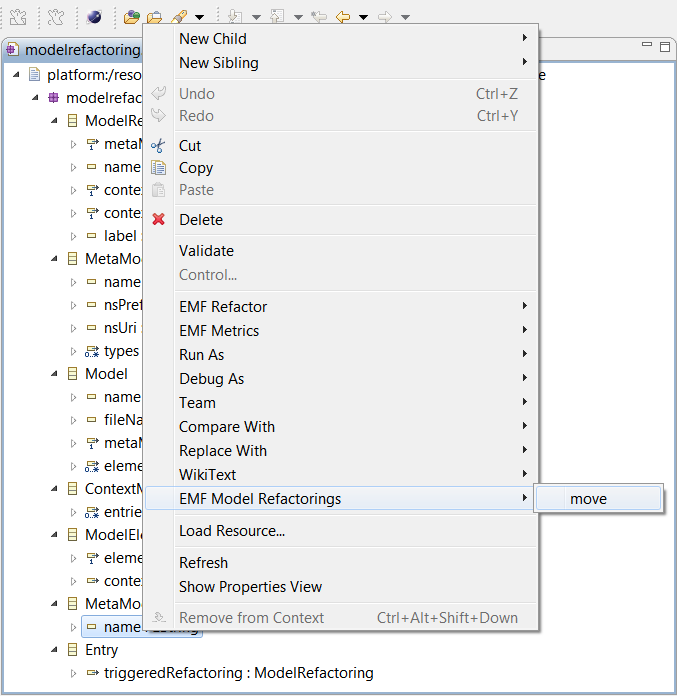
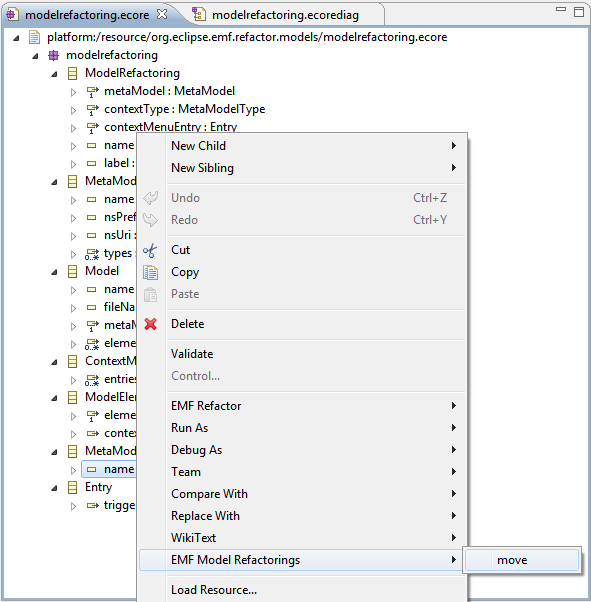
*** empty log message ***

Changed region(s): [[0.0, 0.0, 1.0, 1.0], [0.7005, 0.299, 0.7614, 0.3887], [0.7005, 0.1196, 0.7614, 0.1794]]

diff --git a/emft/refactor/application.php b/emft/refactor/application.php
@@ -13,77 +13,77 @@
 		<h1>$pageTitle</h1>	
 			<p>This manual presents the application of a EMF model refactoring using <b>EMF Refactor</b>. More precisely, we demonstrate the model refactoring <b>Move EAttribute</b> for Ecore models. Please note, that EMF Refactor can be used for refactorings of any models whose meta model is based on EMF Ecore.</p>
 			<p>First, please take a look to the following Ecore diagram presenting a first model concerning EMF model refactorings in an early stage of the EMF Refactor development process. A <i>ModelRefactoring</i> has a name and conforms to a <i>MetaModel</i> that is specified by name, namespace prefix, and namespace URI. Furthermore, it has a label that should be shown as an <i>Entry</i> in the <i>ContextMenu</i> of an arbitrary <i>ModelElement</i>. A <i>ModelElement</i> belongs to a <i>Model</i> that is specified by a name and stored in a file with a specific name. Furthermore, a <i>Model</i> conforms to a <i>MetaModel</i> and each <i>ModelElement</i> is typed over a specific <i>MetaModelType</i> belonging to the corresponding <i>MetaModel</i>. Besides the afore mentioned attributes, each <i>ModelRefactoring</i> is related to a <i>MetaModelType</i> representing the type of the contextual element the refactoring can be applied on.</p>
-			<img src="fig/appl_01_new.PNG" alt="Fig. a_1">	
+			<img src="fig/appl_01.PNG" alt="Fig. a_1">	
 			<p></p>
 			<p>During software design it became questionable whether attribute <i>label</i> of class <i>ModelRefactoring</i> could be better placed in class <i>Entry</i>. So, model refactoring <b>Move EAttribute</b> is the next task to be performed. Since <b>EMF Refactor</b> can be used on arbitrary EMF based models the application of a specific refactoring is mainly triggered from within the EMF instance editor. The next figure shows the example model from above using this tree-based editor.</p>
-			<img src="fig/appl_02.PNG" width="407" height="477" alt="Fig. a_2">
+			<img src="fig/appl_02.PNG" alt="Fig. a_2">
 			<p></p>
 			<p>EMF model refactoring <b>Move EAttribute</b> can be specified in the following way: First, it has to be checked whether the contextual <i>EAttribute</i> is not marked as ID of the containing class, and whether this class has at least one referenced class. If these (initial) checks pass the user has to put in the name of the class the attribute has to be moved to. Then, it has to be checked whether the containing class has a referenced class with the specified name, and whether this class does not already owns an attribute with the same name as the contextual attribute. If these (final) checks pass the contextual attribute can finally be moved to the specified class.
 			<p>Before applying the refactoring let us first present some erroneous situations. The following figure shows that attribute <i>name</i> of class <i>ModelRefactoring</i> represents the ID of this class. So, the application of refactoring <b>Move EAttribute</b> on attribute <i>name</i> is not possible.</p>
-			<img src="fig/appl_03.PNG" width="684" height="474" alt="Fig. a_3">
+			<img src="fig/appl_03.PNG" alt="Fig. a_3">
 			<p></p>
 			<p>Each refactoring can be triggered from within the context menu of a specific contextual model element. The next figure shows the context menu of attribute <i>name</i>.</p>
-			<img src="fig/appl_04.PNG" width="495" height="552" alt="Fig. a_4">
+			<img src="fig/appl_04.PNG" alt="Fig. a_4">
 			<p></p>
 			<p>As expected, <b>EMF Refactor</b> does not apply refactoring <b>Move EAttribute</b> because of the violated precondition. The following figure shows the corresponding error message.</p>
-			<img src="fig/appl_05.PNG" width="503" height="140" alt="Fig. a_5">
+			<img src="fig/appl_05.PNG" alt="Fig. a_5">
 			<p></p>
 			<p>The second erroneous situation occurs if we try to apply refactoring <b>Move EAttribute</b> on attribute <i>name</i> of class <i>MetaModelElement</i>. As you see in the following figure, this class does not have any (outgoing) references to other classes in our example model.</p>
-			<img src="fig/appl_01.PNG" width="750" height="464" alt="Fig. a_1">	
+			<img src="fig/appl_01.PNG" alt="Fig. a_1">	
 			<p></p>
 			<p>Again, we trigger refactoring <b>Move EAttribute</b> from within the context menu of attribute <i>name</i> of class <i>MetaModelElement</i> as shown in the following figure.</p>
-			<img src="fig/appl_06.PNG" width="491" height="505" alt="Fig. a_6">	
+			<img src="fig/appl_06.PNG" alt="Fig. a_6">	
 			<p></p>
 			<p>Again, <b>EMF Refactor</b> does not apply refactoring <b>Move EAttribute</b> because of the violated precondition. The following figure shows the corresponding error message.</p>
-			<img src="fig/appl_07.PNG" width="503" height="138" alt="Fig. a_7">
+			<img src="fig/appl_07.PNG" alt="Fig. a_7">
 			<p></p>
 			<p>Now, let's try to apply refactoring <b>Move EAttribute</b> on attribute <i>name</i> of class <i>MetaModel</i>. The initial checks pass, i.e. the attribute is not the ID of its containing class and this class is referenced to class <i>MetaModelType</i> (see following figure).</p>
-			<img src="fig/appl_01.PNG" width="750" height="464" alt="Fig. a_1">	
+			<img src="fig/appl_01.PNG" alt="Fig. a_1">	
 			<p></p>
 			<p>Again, we trigger refactoring <b>Move EAttribute</b> from within the context menu of attribute <i>name</i> of class <i>MetaModel</i> as shown in the following figure.</p>
-			<img src="fig/appl_08.PNG" width="492" height="631" alt="Fig. a_8">	
+			<img src="fig/appl_08.PNG" alt="Fig. a_8">	
 			<p></p>
 			<p>The initial precondition checks pass, i.e. <b>EMF Refactor</b> does not display any error messages, and a user input form appears specific to the triggered EMF model refactoring. For refactoring <b>Move EAttribute</b> we now have to input the name of the class the contextual attribute should be moved to. The following figure shows the input dialog. Here, another erroneous situation arises if we type in a name of a class that is not referenced by the containing class of the contextual attribute (or even a complete invalid name), for example <i>ModelElement</i>.</p>
-			<img src="fig/appl_09.PNG" width="477" height="159" alt="Fig. a_9">	
+			<img src="fig/appl_09.PNG" alt="Fig. a_9">	
 			<p></p>
 			<p>Again, <b>EMF Refactor</b> does not apply refactoring <b>Move EAttribute</b> because of the violated precondition. The following figure shows the corresponding error message.</p>
-			<img src="fig/appl_10.PNG" width="449" height="372" alt="Fig. a_10">	
+			<img src="fig/appl_10.PNG" alt="Fig. a_10">	
 			<p></p>
 			<p>The last erronoeous situation occurs if we try to move attribute <i>name</i> of class <i>MetaModel</i> to the referenced class <i>MetaModelType</i>. Here, class <i>MetaModelType</i> already owns an attribute <i>name</i> (see following figure).</p>
-			<img src="fig/appl_01.PNG" width="750" height="464" alt="Fig. a_1">	
+			<img src="fig/appl_01.PNG" alt="Fig. a_1">	
 			<p></p>
 			<p>Again, we trigger refactoring <b>Move EAttribute</b> from within the context menu of attribute <i>name</i> of class <i>MetaModel</i> as shown in the following figure.</p>
-			<img src="fig/appl_08.PNG" width="492" height="631" alt="Fig. a_8">	
+			<img src="fig/appl_08.PNG" alt="Fig. a_8">	
 			<p></p>
 			<p>In the refactoring parameter dialog we type in name <i>MetaModelType</i> as shown in the following figure.</p>
-			<img src="fig/appl_11.PNG" width="477" height="158" alt="Fig. a_11">	
+			<img src="fig/appl_11.PNG" alt="Fig. a_11">	
 			<p></p>
 			<p>Again, <b>EMF Refactor</b> does not apply refactoring <b>Move EAttribute</b> because of the violated precondition. The following figure shows the corresponding error message.</p>
-			<img src="fig/appl_12.PNG" width="449" height="372" alt="Fig. a_10">	
+			<img src="fig/appl_12.PNG" alt="Fig. a_10">	
 			<p></p>
 			<p>Now, all possible erroneous situations of EMf refactoring <b>Move EAttribute</b> are presented and we can continue with a successful refactoring application. As already mentioned above, attribute <i>label</i> of class <i>ModelRefactoring</i> could be better placed in class <i>Entry</i> and should be moved.</p>
-			<img src="fig/appl_01.PNG" width="750" height="464" alt="Fig. a_1">	
+			<img src="fig/appl_01.PNG" alt="Fig. a_1">	
 			<p></p>
 			<p>Now, we trigger refactoring <b>Move EAttribute</b> from within the context menu of attribute <i>label</i> of class <i>ModelRefactoring</i> as shown in the following figure.</p>
-			<img src="fig/appl_13.PNG" width="493" height="599" alt="Fig. a_13">	
+			<img src="fig/appl_13.PNG" alt="Fig. a_13">	
 			<p></p>
 			<p>Since the initial precondition checks pass the parameter dialog appears and we type in class name <i>Entry</i> (see following figure).</p>
-			<img src="fig/appl_14.PNG" width="477" height="157" alt="Fig. a_14">	
+			<img src="fig/appl_14.PNG" alt="Fig. a_14">	
 			<p></p>
 			<p>It is possible to optain a preview of the refactoring action. Here, <b>EMF Refactor</b> uses <b>EMF Compare</b>. The left hand side of the following figure shows the original model whereas the right hand side presents the refactored model. Model changes are highlighted by colored connections. Here, the dialog shows that attribute <i>label</i> was removed from class <i>ModelRefactoring</i> and inserted into class <i>Entry</i>, i.e. the attribute was moved.</p>
-			<img src="fig/appl_15.PNG" width="477" height="501" alt="Fig. a_15">	
+			<img src="fig/appl_15.PNG" alt="Fig. a_15">	
 			<p></p>
 			<p>Now, these changes can be committed and refactoring <b>Move EAttribute</b> can take place. The following figure shows the refactored model using the tree-based EMF instance editor.</p>
-			<img src="fig/appl_16.PNG" width="405" height="480" alt="Fig. a_16">	
+			<img src="fig/appl_16.PNG" alt="Fig. a_16">	
 			<p></p>
 			<p>Of course, <b>EMF Refactor</b> provides undo ...</p>
-			<img src="fig/appl_17.PNG" width="254" height="292" alt="Fig. a_17">	
+			<img src="fig/appl_17.PNG" alt="Fig. a_17">	
 			<p></p>
 			<p>... and redo functionality.</p>
-			<img src="fig/appl_18.PNG" width="253" height="291" alt="Fig. a_18">	
+			<img src="fig/appl_18.PNG" alt="Fig. a_18">	
 			<p></p>
 			<p>The last figure of this manual shows the refactored Ecore model using the graphical diagram view of <b>Ecore Tools</b>.</p>
-			<img src="fig/appl_19.PNG" width="748" height="432" alt="Fig. a_19">
+			<img src="fig/appl_19.PNG" alt="Fig. a_19">
 			<p></p>
 			<p><a href=#top>top</a></p>	
 	</div>
